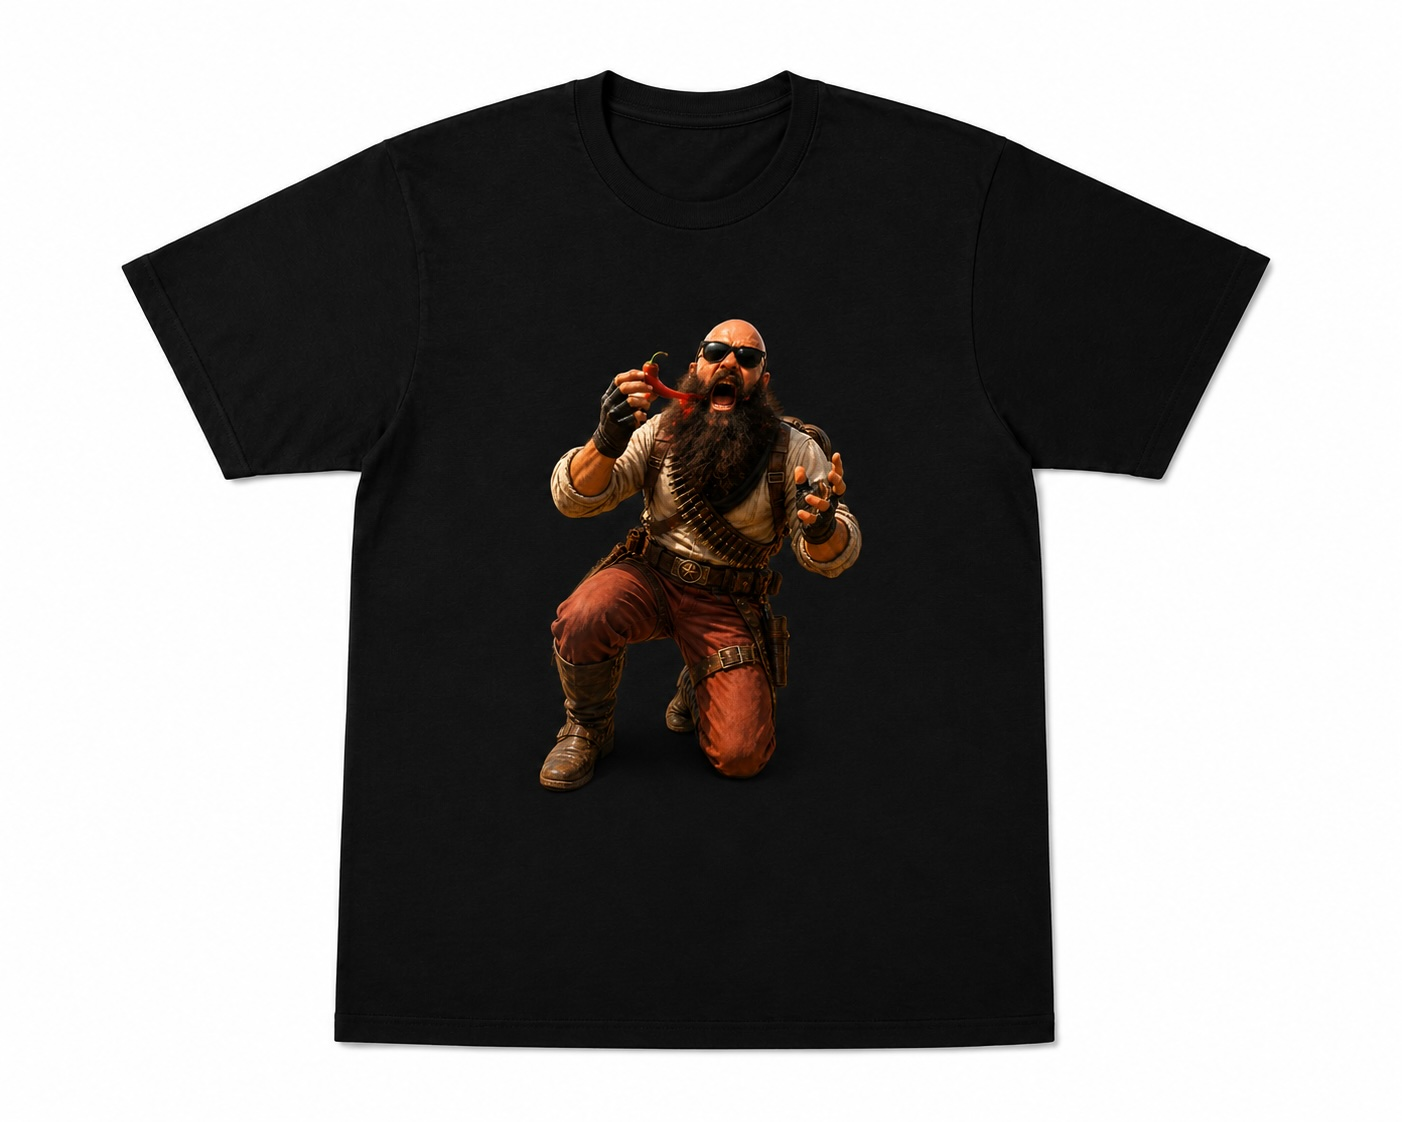
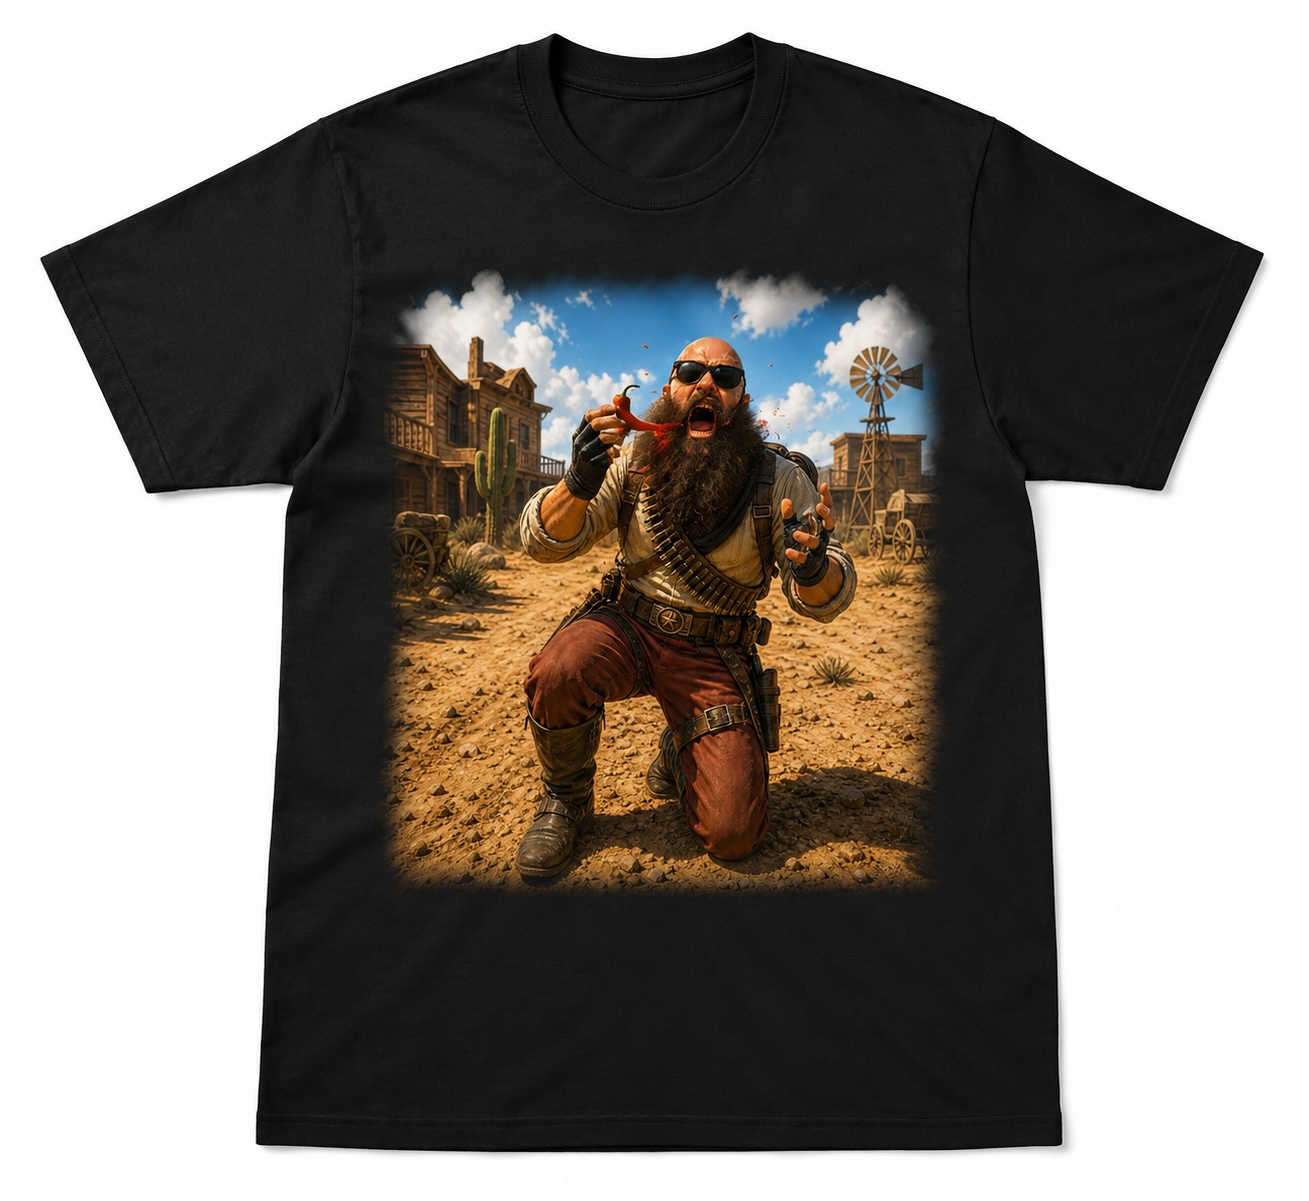
Phase B: D4 Season 13 + MH Wilds TU4
Real terminology from icy-veins research

diff --git a/index.html b/index.html
@@ -654,7 +654,6 @@ const games = [
   {slug:'eldenring',           name:'Elden Ring',             short:'Elden Ring',   steamAppId:1245620, subreddit:'Eldenring',       platforms:['pc','ps5','xbox']},
   {slug:'cyberpunk2077',       name:'Cyberpunk 2077',         short:'Cyberpunk',    steamAppId:1091500, subreddit:'cyberpunkgame',   platforms:['pc','ps5','xbox']},
   {slug:'baldursgate3',        name:"Baldur's Gate 3",        short:'BG3',          steamAppId:1086940, subreddit:'BaldursGate3',    platforms:['pc','ps5','xbox']},
-  {slug:'gta6',                name:'Grand Theft Auto VI',    short:'GTA VI',                           subreddit:'GTA6',            platforms:['ps5','xbox']},
   {slug:'helldivers2',         name:'Helldivers 2',           short:'Helldivers 2', steamAppId:553850,  subreddit:'Helldivers',      platforms:['pc','ps5']},
   {slug:'lol',                 name:'League of Legends',      short:'LoL',                              subreddit:'leagueoflegends', platforms:['pc']},
   {slug:'valorant',            name:'Valorant',               short:'Valorant',                         subreddit:'VALORANT',        platforms:['pc']},
@@ -901,15 +900,16 @@ const guides = [
     slug:'arc-raiders-extraction-101',
     title:'Arc Raiders: Extraction 101 — Don\'t Die With Your Loot',
     summary:'Reading the map, choosing your route, and the three rules that separate raiders who extract from raiders who get extracted.',
-    game:'arc-raiders', type:'guide', difficulty:'beginner', date:'2026-04-25', readTime:6,
+    game:'arc-raiders', type:'guide', difficulty:'beginner', category:'beginner', author:'Editorial', date:'2026-04-25', readTime:6,
     content:[
-      {type:'p', text:'Extraction shooters live and die on the last 90 seconds. Here\'s the framework that keeps you alive.'},
-      {type:'h', text:'Rule 1 — Pick your extract before you push'},
-      {type:'p', text:'Hot drops are bait. Always know which extract is closest to your spawn and your secondary route if it gets contested.'},
-      {type:'h', text:'Rule 2 — Stop looting at 70%'},
-      {type:'p', text:'When your bag hits 70%, you switch from "looter" to "runner" mentality. Extra rare drops are not worth dying for.'},
-      {type:'h', text:'Rule 3 — Listen more than you shoot'},
-      {type:'p', text:'Audio info > visual info in Arc Raiders. Footsteps, drone whirrs, distant gunfire — all give you positioning data.'}
+      {type:'note', text:'Principles below are stable across extraction shooters and apply to Arc Raiders regardless of which tech test build is current.'},
+      {type:'p', text:'Extraction shooters live and die on the last 90 seconds. Here is the framework that keeps you alive.'},
+      {type:'h2', text:'Rule 1 — Pick your extract before you push'},
+      {type:'p', text:'Hot loot points are bait. Always know which extract is closest to your spawn and your secondary route if it gets contested.'},
+      {type:'h2', text:'Rule 2 — Stop looting at 70%'},
+      {type:'p', text:'When your bag hits 70%, you switch from "looter" to "runner" mindset. Extra rare drops are not worth dying for.'},
+      {type:'h2', text:'Rule 3 — Listen more than you shoot'},
+      {type:'p', text:'Audio info beats visual info in Arc Raiders. Footsteps, ARC patrol drones, distant gunfire — all give you positioning data. Move silent, listen often.'}
     ]
   },
   {
@@ -1082,38 +1082,49 @@ const guides = [
   {
     slug:'arc-raiders-extraction-routing',
     title:'Arc Raiders: Extraction Route Mastery',
-    summary:'The 3-extract triangle that keeps options open — and why solo raiders should always pre-call their exit.',
+    summary:'How to plan extracts before pushing loot zones. The mental model that separates raiders who exfil from raiders who feed kills.',
     game:'arc-raiders', type:'guide', difficulty:'intermediate', category:'strategy', featured:true,
-    date:'2026-04-25', author:'Editorial', readTime:7, patchVersion:'Tech Test 4',
+    date:'2026-04-25', author:'Editorial', readTime:7,
     content:[
-      {type:'p', text:'In Arc Raiders, dying with full bag is the worst outcome. Routing fixes that.'},
+      {type:'note', text:'Arc Raiders is still iterating between tech tests. Names of zones and exact timers may change at launch — focus on the principles, they are stable across extraction shooters.'},
+      {type:'p', text:'The worst outcome in Arc Raiders is dying with a full bag. Routing fixes that.'},
       {type:'h2', text:'The triangle principle'},
-      {type:'p', text:'Always know 3 extracts: your spawn extract (closest), your loot extract (in your loot zone), and your safety extract (on the opposite side of contested zones).'},
-      {type:'tip', text:'Extracts in Arc Raiders cycle their availability. Always check the timer banner top-right before committing to a route.'},
-      {type:'h2', text:'Route example — Buried City'},
-      {type:'steps', items:[
-        {title:'Spawn near Tunnels', text:'Loot Tunnels first (low-risk).'},
-        {title:'Push north towards Plaza only if Tunnels was clean', text:'Plaza is hot but high tier loot.'},
-        {title:'Extract at North Generator OR retreat to Tunnel exit', text:'Both extracts cycle on opposite timers. One is always live.'}
+      {type:'p', text:'Before you commit to any loot zone, mentally pin three extraction points: the spawn extract (closest fallback), the loot extract (inside the zone you intend to push), and the safety extract (on the opposite edge of the map, in case the contested zone goes hot).'},
+      {type:'tip', text:'Extraction availability cycles in Arc Raiders. Always glance at the surface UI for active extract markers before committing to a direction.'},
+      {type:'h2', text:'Surface vs underground decision'},
+      {type:'p', text:'The above-ground portions are exposed to ARC patrols and other raiders. Underground areas are tighter, less PvP-heavy, but loot tier is lower. Plan your loop: surface first while fresh, drop underground when bag is half full.'},
+      {type:'h2', text:'When to abandon loot'},
+      {type:'ul', items:[
+        'Bag is over 70% full — switch from looter to runner mindset',
+        'You hear sustained gunfire near your route — reroute, do not investigate',
+        'ARC alarm has been triggered (audio cue) — extract within 90 seconds or commit to fight'
       ]}
     ]
   },
   {
     slug:'arc-raiders-pvp-loadout',
-    title:'Arc Raiders: PvP Loadout Tier List',
-    summary:'Which weapon combos win 1v1s in raids. Updated for the latest tech test balance pass.',
+    title:'Arc Raiders: PvP Loadout Strategy',
+    summary:'Choosing the right weapon class combo for the engagement range you expect. Principles, not patch-specific numbers.',
     game:'arc-raiders', type:'guide', difficulty:'intermediate', category:'pvp',
-    date:'2026-04-19', author:'Editorial', readTime:6, patchVersion:'Tech Test 4',
+    date:'2026-04-19', author:'Editorial', readTime:6,
     content:[
-      {type:'h2', text:'S-tier loadouts'},
-      {type:'compare', headers:['Loadout A','Loadout B'], rows:[
-        {label:'Primary', a:'Bullpup AR', b:'Pump Shotgun'},
-        {label:'Secondary', a:'Compact SMG', b:'Auto Pistol'},
-        {label:'Best range', a:'Mid (15-30m)', b:'Close (<10m)'},
-        {label:'TTK', a:'0.4s', b:'0.2s burst'},
-        {label:'Mag', a:'30+30', b:'8 shells'}
+      {type:'note', text:'Arc Raiders weapon balance shifts each tech test. This guide focuses on weapon-class strategy that works regardless of specific weapon names available in your patch.'},
+      {type:'h2', text:'Pick the loadout that matches your role'},
+      {type:'p', text:'Solo raiders pushing surface zones, squad anchors, sneak-stealth scavengers — each role has a loadout shape that wins more 1v1s.'},
+      {type:'h2', text:'Loadout shapes'},
+      {type:'compare', headers:['Aggressive Surface','Defensive Holdout','Sneak Scavenger'], rows:[
+        {label:'Primary class', a:'Mid-range automatic', b:'Long-range marksman', c:'Suppressed compact'},
+        {label:'Secondary class', a:'Close-range shotgun', b:'Sidearm pistol', c:'Compound bow / silent'},
+        {label:'Ideal range', a:'10-30 m', b:'40 m+', c:'<15 m, prefer no shot'},
+        {label:'Best for', a:'Open POIs, surface', b:'Rooftops, holdouts', c:'Underground, evasion'}
       ]},
-      {type:'note', text:'Both loadouts assume you have at least Tier 2 ammo. Tier 1 ammo doubles TTK and makes both loadouts viable but not S-tier.'}
+      {type:'h2', text:'Universal rules'},
+      {type:'ul', items:[
+        'Higher-tier ammunition matters more than weapon model — prioritize ammo upgrades over gun upgrades when you can choose',
+        'Always have one weapon optimized against ARC robots (high single-hit damage) AND one against players (sustained DPS)',
+        'Sound discipline beats accuracy — silenced loadouts that never fire often extract richer than loud loadouts that win every fight'
+      ]},
+      {type:'tip', text:'When in doubt, pick the loadout that lets you walk AWAY from a fight. Extraction shooters reward avoidance more than they reward aim.'}
     ]
   },
 
@@ -1160,46 +1171,130 @@ const guides = [
 
   // ========== Diablo IV ==========
   {
-    slug:'diablo4-leveling-1-50',
-    title:'Diablo IV: Fastest 1-50 Leveling Route',
-    summary:'A 6-hour campaign skip that gets you to World Tier 3 with a fully rolled build. Updated for current season.',
+    slug:'diablo4-leveling-1-70',
+    title:'Diablo IV: Fastest 1-70 Leveling Route (Season 13)',
+    summary:'The current Lord of Hatred season leveling path — campaign skip, Helltides rotation and the move to The Pit at max level.',
     game:'diablo-iv', type:'guide', difficulty:'beginner', category:'beginner', featured:true,
-    date:'2026-04-29', lastUpdated:'2026-05-02', author:'Editorial', readTime:8, patchVersion:'Season 8',
+    date:'2026-04-29', lastUpdated:'2026-05-04', author:'Editorial', readTime:8, patchVersion:'Season 13',
     content:[
-      {type:'kv', items:[{k:'Time',v:'~6h'},{k:'Patch',v:'Season 8'},{k:'Recommended class',v:'Sorc / Spiritborn'}]},
+      {type:'note', text:'Season 13 raised the level cap to 70 and added the Warlock and Paladin classes. The leveling tier list highlights Rogue, Spiritborn, Warlock and Paladin as S-tier for fast 1–70 runs.'},
+      {type:'kv', items:[{k:'Time',v:'~6h'},{k:'Patch',v:'Season 13 (Lord of Hatred)'},{k:'Level cap',v:'70'},{k:'S-tier class for leveling',v:'Rogue / Spiritborn / Paladin / Warlock'}]},
       {type:'h2', text:'Step-by-step'},
       {type:'steps', items:[
         {title:'Skip campaign on alt characters', text:'After the first character finishes the campaign, all alts can skip via the same Eternal Realm save.'},
-        {title:'Run dungeons in Fractured Peaks until level 15', text:'Whisper bonuses double XP gains here.'},
-        {title:'Switch to Hawezar Helltides at level 15+', text:'Helltides give level-scaled gear and Aberrant Cinders.'},
-        {title:'Hit level 50 → switch to NM Dungeons', text:'Tier 1 NM dungeons = best XP/h once you have Glyphs.'}
+        {title:'Run dungeons in Fractured Peaks until level 15', text:'Tree of Whispers bonuses double XP gains here.'},
+        {title:'Switch to Helltides at level 15+', text:'Helltides give level-scaled gear and Aberrant Cinders for the Tortured Gift caches.'},
+        {title:'Hit level 50 → Nightmare Dungeons + Glyph leveling', text:'Tier 1 NM Dungeons are the best XP/h once you have Glyphs. Promote your Glyphs as you climb.'},
+        {title:'Level 60+: push Torment difficulty', text:'Each Torment tier multiplies XP and unlocks better drops. Aim for Torment IV by 70.'}
       ]},
-      {type:'tip', text:'Always have an Elixir of Wisdom active — 5% XP buff stacks with the season journey reward of +5%.'},
-      {type:'h2', text:'After 50'},
-      {type:'p', text:'See our Paragon Pathing guide for the next 100 hours of gameplay.'}
+      {type:'tip', text:'Always have an Elixir of Wisdom active — 5% XP buff stacks with the season journey reward.'},
+      {type:'h2', text:'After 70'},
+      {type:'p', text:'Switch focus to Paragon Boards (300 points cap), Lair Bosses for unique drops, and The Pit of the Artificers for endgame tier pushing. See our Paragon and Pit guides for what comes next.'}
     ]
   },
   {
     slug:'diablo4-pit-pushing-meta',
-    title:'Diablo IV: Pit Pushing Meta (Season 8)',
-    summary:'The 3 builds clearing T100+ Pits and the rotation timings that separate top 0.1% from everyone else.',
+    title:'Diablo IV: Pit Pushing Meta (Season 13)',
+    summary:'The endgame push tier list right now — Warlock, Sorcerer and Rogue lead the Pit of the Artificers.',
     game:'diablo-iv', type:'build', difficulty:'advanced', category:'endgame',
-    date:'2026-04-26', author:'Editorial', readTime:11, patchVersion:'Season 8',
+    date:'2026-04-26', lastUpdated:'2026-05-04', author:'Editorial', readTime:11, patchVersion:'Season 13',
     content:[
-      {type:'h2', text:'Top 3 builds'},
-      {type:'compare', headers:['Sorcerer Storm','Spiritborn Quill','Necro Bone'], rows:[
-        {label:'Top Pit cleared', a:'T112', b:'T108', c:'T103'},
-        {label:'Boss DPS', a:'High', b:'Very High', c:'Medium'},
-        {label:'Trash clear', a:'Excellent', b:'Excellent', c:'Good'},
-        {label:'Survivability', a:'Medium', b:'Low', c:'High'}
+      {type:'p', text:'Per the latest community tier rankings, Endgame Push is dominated by Warlock, Sorcerer and Rogue. Below is the head-to-head comparison.'},
+      {type:'h2', text:'Top 3 endgame builds'},
+      {type:'compare', headers:['Warlock','Sorcerer Storm','Rogue'], rows:[
+        {label:'Resource model', a:'Wrath + Dominance (dual)', b:'Mana', c:'Energy + Combo Points'},
+        {label:'Boss DPS', a:'Very High (ramp)', b:'High (sustained)', c:'High (burst)'},
+        {label:'Trash clear', a:'Excellent', b:'Excellent', c:'Excellent'},
+        {label:'Survivability', a:'Medium', b:'Medium', c:'Medium-Low'},
+        {label:'Skill ceiling', a:'High (dual resource)', b:'Medium', c:'High (positioning)'}
       ]},
-      {type:'h2', text:'Rotation example — Sorcerer Storm'},
+      {type:'h2', text:'Sorcerer Storm — opener and rotation'},
+      {type:'p', text:'Storm Sorcerer revolves around Lightning Spear and Ball Lightning, kept alive by Crackling Energy procs and Unstable Currents windows.'},
       {type:'rotation', steps:[
-        {name:'Unstable Currents', cd:'45s', note:'Open with this — buffs all storm spells'},
-        {name:'Lightning Spear (×3)', note:'Builds Crackling Energy'},
-        {name:'Ball Lightning (overlap)', note:'Cast on cooldown, stack 2-3 if mobile'},
-        {name:'Teleport reposition', cd:'8s', note:'Use as defensive AND offensive — proc Aspect of Static Cling'},
-        {name:'Repeat from Lightning Spear', note:'Maintain Crackling Energy stacks at 6+'}
+        {name:'Unstable Currents', cd:'~45s', note:'Open with this — buffs all storm spells during its window'},
+        {name:'Lightning Spear ×3', note:'Generates Crackling Energy, primes the Ball Lightning loop'},
+        {name:'Ball Lightning', note:'Cast on cooldown, stack 2-3 orbs if mobile to chain hits'},
+        {name:'Teleport reposition', cd:'~8s', note:'Use defensively and offensively — keeps Aspect procs rolling'},
+        {name:'Loop back to Lightning Spear', note:'Maintain Crackling Energy at 6+ for sustained Ball Lightning damage'}
+      ]},
+      {type:'h2', text:'Where to test the build'},
+      {type:'ul', items:['The Pit of the Artificers — push tiers as far as gear allows','Lair Bosses for unique drops','Echo of Lilith for the ultimate single-target check']}
+    ]
+  },
+  {
+    slug:'diablo4-auradin-paladin-build',
+    title:'Diablo IV: Auradin Paladin Build (Season 13)',
+    summary:'The aura-stacking Paladin build that turned the new class into a Speed Farming and Endgame Push contender.',
+    game:'diablo-iv', type:'build', difficulty:'intermediate', category:'build', featured:true,
+    date:'2026-05-04', lastUpdated:'2026-05-04', author:'Editorial', readTime:7, patchVersion:'Season 13',
+    content:[
+      {type:'note', text:'Paladin is the new Strength-based class introduced in Season 12 alongside Vessel of Hatred. Auradin (aura-Paladin) is the most popular variant in Season 13 thanks to its tankiness and group buffs.'},
+      {type:'kv', items:[{k:'Class',v:'Paladin'},{k:'Resource',v:'Oath system'},{k:'Best at',v:'Speed Farm + Boss Killing'},{k:'Tier',v:'S (Speed Farm), A (Endgame Push)'}]},
+      {type:'h2', text:'Core skills'},
+      {type:'ul', items:[
+        '<strong>Advance</strong> — gap closer / engage tool',
+        '<strong>Holy Light Aura</strong> — sustain healing',
+        '<strong>Defiance Aura</strong> — damage reduction',
+        '<strong>Fanaticism Aura</strong> — attack speed buff',
+        '<strong>Rally</strong> — group cooldown reduction',
+        '<strong>Falling Star</strong> — main damage finisher'
+      ]},
+      {type:'h2', text:'Stat priority'},
+      {type:'statPriority', stats:[
+        {name:'Strength', priority:1, note:'Main stat — scales holy damage'},
+        {name:'Willpower', priority:2, note:'Generates Oath faster'},
+        {name:'Armor / Resistances', priority:3, note:'Tankiness'},
+        {name:'Crit Chance / Crit Damage', priority:4, note:'Falling Star scaling'}
+      ]},
+      {type:'tip', text:'The Paladin Oath system fills as you take and deal damage. Spend it on Falling Star at peak crowds for the biggest hit windows.'}
+    ]
+  },
+  {
+    slug:'diablo4-warlock-intro',
+    title:'Diablo IV: Warlock — The Dual-Resource Class Explained',
+    summary:'The Warlock arrived with Lord of Hatred and uses two resource pools — Wrath and Dominance. Here is what to know.',
+    game:'diablo-iv', type:'guide', difficulty:'beginner', category:'class', featured:false,
+    date:'2026-05-04', author:'Editorial', readTime:6, patchVersion:'Season 13',
+    content:[
+      {type:'p', text:'The Warlock is a Willpower-based caster added in the Lord of Hatred expansion. It is currently the only class in Diablo IV with a dual-resource system.'},
+      {type:'h2', text:'Wrath vs Dominance'},
+      {type:'compare', headers:['Wrath','Dominance'], rows:[
+        {label:'How it builds', a:'Generated by Basic Skills (like most classes)', b:'Generated through specific build conditions — much harder to come by'},
+        {label:'What it spends on', a:'Standard damage spells', b:'High-impact ultimate-tier abilities'},
+        {label:'Pace', a:'Constant flow', b:'Slow ramp into burst'}
+      ]},
+      {type:'h2', text:'Who should play Warlock'},
+      {type:'ul', items:[
+        'Players who like ramping / build-up gameplay',
+        'Anyone who pushed Endgame on Sorcerer and wants more depth',
+        'Best class for solo Pit pushing in Season 13 (S-tier Endgame Push)'
+      ]},
+      {type:'warning', text:'Warlock has the highest skill ceiling of any current class. Expect a longer learning curve than the original 5 classes.'}
+    ]
+  },
+  {
+    slug:'mh-wilds-artian-weapons-tu4',
+    title:'MH Wilds: Artian Weapons + Armor Transcendence (TU4)',
+    summary:'Title Update 4 introduced craftable Artian weapons and the Armor Transcendence system. Here is the practical setup path.',
+    game:'monster-hunter-wilds', type:'guide', difficulty:'advanced', category:'endgame',
+    date:'2026-05-04', author:'Editorial', readTime:8, patchVersion:'Title Update 4',
+    content:[
+      {type:'note', text:'Title Update 4 added Gogmazios as the new endgame monster, Arch-tempered Jin Dahaad, the Lumenhymn seasonal event, Armor Transcendence and the Gogma Artian weapons line.'},
+      {type:'h2', text:'Artian weapons in one paragraph'},
+      {type:'p', text:'Artian weapons are craftable endgame weapons with rolled stats. Unlike fixed monster weapons, two Artian weapons of the same type can have different stat profiles. Reroll-by-craft is the endgame loop.'},
+      {type:'h2', text:'Setup path'},
+      {type:'steps', items:[
+        {title:'Reach Hunter Rank 31+', text:'Required to access the Artian crafting system.'},
+        {title:'Farm Tempered / Arch-Tempered hunts', text:'Drops the parts needed for Artian crafts. Arch-tempered Jin Dahaad is the most efficient TU4 source.'},
+        {title:'Craft your weapon at the Smithy', text:'Stats roll on craft — keep crafting until you hit a usable spread for your build.'},
+        {title:'Apply Armor Transcendence', text:'TU4 lets you push armor pieces past their normal cap by spending materials. Use this to fill skill gaps left by your Artian roll.'}
+      ]},
+      {type:'tip', text:'Save your best mid-roll Artian as a transition weapon. It is easy to chase a perfect roll and end up under-equipped for the very fights that drop the materials you need.'},
+      {type:'h2', text:'Endgame target hunts'},
+      {type:'ul', items:[
+        'Gogmazios — TU4 marquee monster, drops the Gogma Artian line',
+        'Arch-tempered Jin Dahaad — endgame difficulty hunt',
+        'Arch-tempered Arkveld — added shortly after TU4 launch'
       ]}
     ]
   }
@@ -1331,28 +1426,16 @@ const tierLists = [
     ]
   },
   {
-    slug:'mh-wilds-weapons-2026',
-    title:'Monster Hunter Wilds: Weapon Tier List',
-    summary:'For solo and group hunts. Move count, openings created, comfort factor.',
-    game:'monster-hunter-wilds', featured:false, date:'2026-04-10',
+    slug:'mh-wilds-weapons-tu4',
+    title:'Monster Hunter Wilds: Weapon Tier List (Title Update 4)',
+    summary:'After TU4 weapon buffs and Gogmazios / Arch-tempered Jin Dahaad endgame — solo and group hunt rankings across all 14 weapon types.',
+    game:'monster-hunter-wilds', featured:false, date:'2026-04-10', lastUpdated:'2026-05-04', patchVersion:'Title Update 4', author:'Editorial', category:'endgame',
     tiers:[
-      {tier:'S', items:['Greatsword','Insect Glaive','Long Sword']},
+      {tier:'S', items:['Great Sword','Insect Glaive','Long Sword']},
       {tier:'A', items:['Switch Axe','Charge Blade','Hammer','Hunting Horn']},
       {tier:'B', items:['Bow','Heavy Bowgun','Dual Blades']},
-      {tier:'C', items:['Sword & Shield','Light Bowgun']},
+      {tier:'C', items:['Sword and Shield','Light Bowgun']},
       {tier:'D', items:['Lance','Gunlance']}
-    ]
-  },
-  {
-    slug:'diablo4-classes-s8',
-    title:'Diablo IV Season 8: Class Tier List',
-    summary:'Pit pushing, NM dungeons, end-game viability — ranked.',
-    game:'diablo-iv', featured:true, date:'2026-04-02',
-    tiers:[
-      {tier:'S', items:['Sorcerer','Spiritborn']},
-      {tier:'A', items:['Necromancer','Druid']},
-      {tier:'B', items:['Rogue','Barbarian']},
-      {tier:'C', items:['Paladin (limited build variety)']}
     ]
   },
   {
@@ -1383,14 +1466,14 @@ const tierLists = [
   },
   {
     slug:'arc-raiders-weapons-tier',
-    title:'Arc Raiders: Weapon Tier List (Tech Test 4)',
-    summary:'After the latest balance pass, the meta has shifted toward mid-range engagements.',
-    game:'arc-raiders', category:'pvp', featured:true, date:'2026-04-22', patchVersion:'Tech Test 4', author:'Editorial',
+    title:'Arc Raiders: Weapon Class Tier List',
+    summary:'How weapon classes rank by versatility against ARC and players. Class-based ranking — works regardless of which exact gun the tech test currently has unlocked.',
+    game:'arc-raiders', category:'pvp', featured:true, date:'2026-04-22', author:'Editorial',
     tiers:[
-      {tier:'S', items:['Bullpup AR','Pump Shotgun','Compact SMG']},
-      {tier:'A', items:['Marksman Rifle','Hunting Rifle','Auto Pistol']},
-      {tier:'B', items:['SMG','Heavy Pistol','Bolt Action']},
-      {tier:'C', items:['Revolver','Crossbow']}
+      {tier:'S', items:['Mid-range Automatic Rifle','Pump Shotgun (close)','Compound Bow (silent kills)']},
+      {tier:'A', items:['Marksman / Semi-auto Rifle','Suppressed SMG','Light Pistol (sidearm)']},
+      {tier:'B', items:['Heavy SMG','Bolt-action Rifle','Heavy Pistol']},
+      {tier:'C', items:['Revolver','Crossbow (slow reload)']}
     ]
   },
   {
@@ -1406,15 +1489,36 @@ const tierLists = [
     ]
   },
   {
-    slug:'diablo4-classes-tier-s8',
-    title:'Diablo IV: Class Tier List (Season 8)',
-    summary:'Pit pushing, NM dungeons, leveling speed and build variety — all weighted in this ranking.',
-    game:'diablo-iv', category:'class', featured:true, date:'2026-04-26', patchVersion:'Season 8', author:'Editorial',
+    slug:'diablo4-classes-tier-s13',
+    title:'Diablo IV: Class Tier List (Season 13)',
+    summary:'Endgame Push, Speed Farming, Boss Killer and Leveling — overall class strength in the Lord of Hatred season.',
+    game:'diablo-iv', category:'class', featured:true, date:'2026-05-04', lastUpdated:'2026-05-04', patchVersion:'Season 13', author:'Editorial',
     tiers:[
-      {tier:'S', items:['Sorcerer','Spiritborn']},
-      {tier:'A', items:['Necromancer','Druid']},
-      {tier:'B', items:['Rogue','Barbarian']},
-      {tier:'C', items:['Paladin']}
+      {tier:'S', items:['Warlock','Sorcerer','Rogue']},
+      {tier:'A', items:['Spiritborn','Druid','Paladin']},
+      {tier:'B', items:['Necromancer','Barbarian']}
+    ]
+  },
+  {
+    slug:'diablo4-leveling-tier-s13',
+    title:'Diablo IV: Leveling Class Tier List (Season 13)',
+    summary:'Which classes hit Level 70 the fastest right now — based on solo XP throughput and gear independence.',
+    game:'diablo-iv', category:'beginner', date:'2026-05-04', patchVersion:'Season 13', author:'Editorial',
+    tiers:[
+      {tier:'S', items:['Rogue','Spiritborn','Warlock','Paladin']},
+      {tier:'A', items:['Druid','Necromancer','Sorcerer']},
+      {tier:'B', items:['Barbarian']}
+    ]
+  },
+  {
+    slug:'diablo4-speed-farm-tier-s13',
+    title:'Diablo IV: Speed Farming Tier List (Season 13)',
+    summary:'Helltides, low-tier Pit, Tree of Whispers — the classes that clear them fastest and grab the most loot per hour.',
+    game:'diablo-iv', category:'endgame', date:'2026-05-04', patchVersion:'Season 13', author:'Editorial',
+    tiers:[
+      {tier:'S', items:['Rogue','Sorcerer','Paladin']},
+      {tier:'A', items:['Druid','Spiritborn','Warlock']},
+      {tier:'B', items:['Necromancer','Barbarian']}
     ]
   },
   {
@@ -1712,13 +1816,13 @@ const socials = [
 // Toggle to true when first merch products are live. The section is hidden when false.
 const SHOW_MERCH = true;
 const merch = [
-  {slug:'black-tee-l',         name:'Black Tee — Logo L',         img:'merch/Black Tee - Logo L.png',         url:'#'},
-  {slug:'black-tee-s',         name:'Black Tee — Logo S',         img:'merch/Black Tee - Logo S.png',         url:'#'},
-  {slug:'white-tee-l',         name:'White Tee — Logo L',         img:'merch/White Tee - Logo L.png',         url:'#'},
-  {slug:'white-tee-s',         name:'White Tee — Logo S',         img:'merch/White Tee - Logo S.png',         url:'#'},
-  {slug:'black-mug',           name:'Black Mug',                  img:'merch/Black Mug.png',                  url:'#'},
-  {slug:'black-chilli',        name:'Black Chilli',               img:'merch/Black Chilli.png',               url:'#'},
-  {slug:'black-chilli-nobg',   name:'Black Chilli (No Background)', img:'merch/Black Chilli No Background.png', url:'#'}
+  {slug:'black-tee-l',      name:'Black Tee — Logo L',  img:'merch/Black Tee - Logo L.jpg',   url:'#'},
+  {slug:'black-tee-s',      name:'Black Tee — Logo S',  img:'merch/Black Tee - Logo S.jpg',   url:'#'},
+  {slug:'white-tee-l',      name:'White Tee — Logo L',  img:'merch/White Tee - Logo L.jpg',   url:'#'},
+  {slug:'white-tee-s',      name:'White Tee — Logo S',  img:'merch/White Tee - Logo S.jpg',   url:'#'},
+  {slug:'black-mug',        name:'Black Mug',           img:'merch/Black Mug.jpg',            url:'#'},
+  {slug:'black-chilli-tee', name:'Black Chilli Tee',    img:'merch/Black Chilli Tee.jpg',     url:'#'},
+  {slug:'black-chilli-nb',  name:'Black Chilli NB Tee', img:'merch/Black Chilli NB Tee.jpg',  url:'#'}
 ];
 
 /* ================================================================